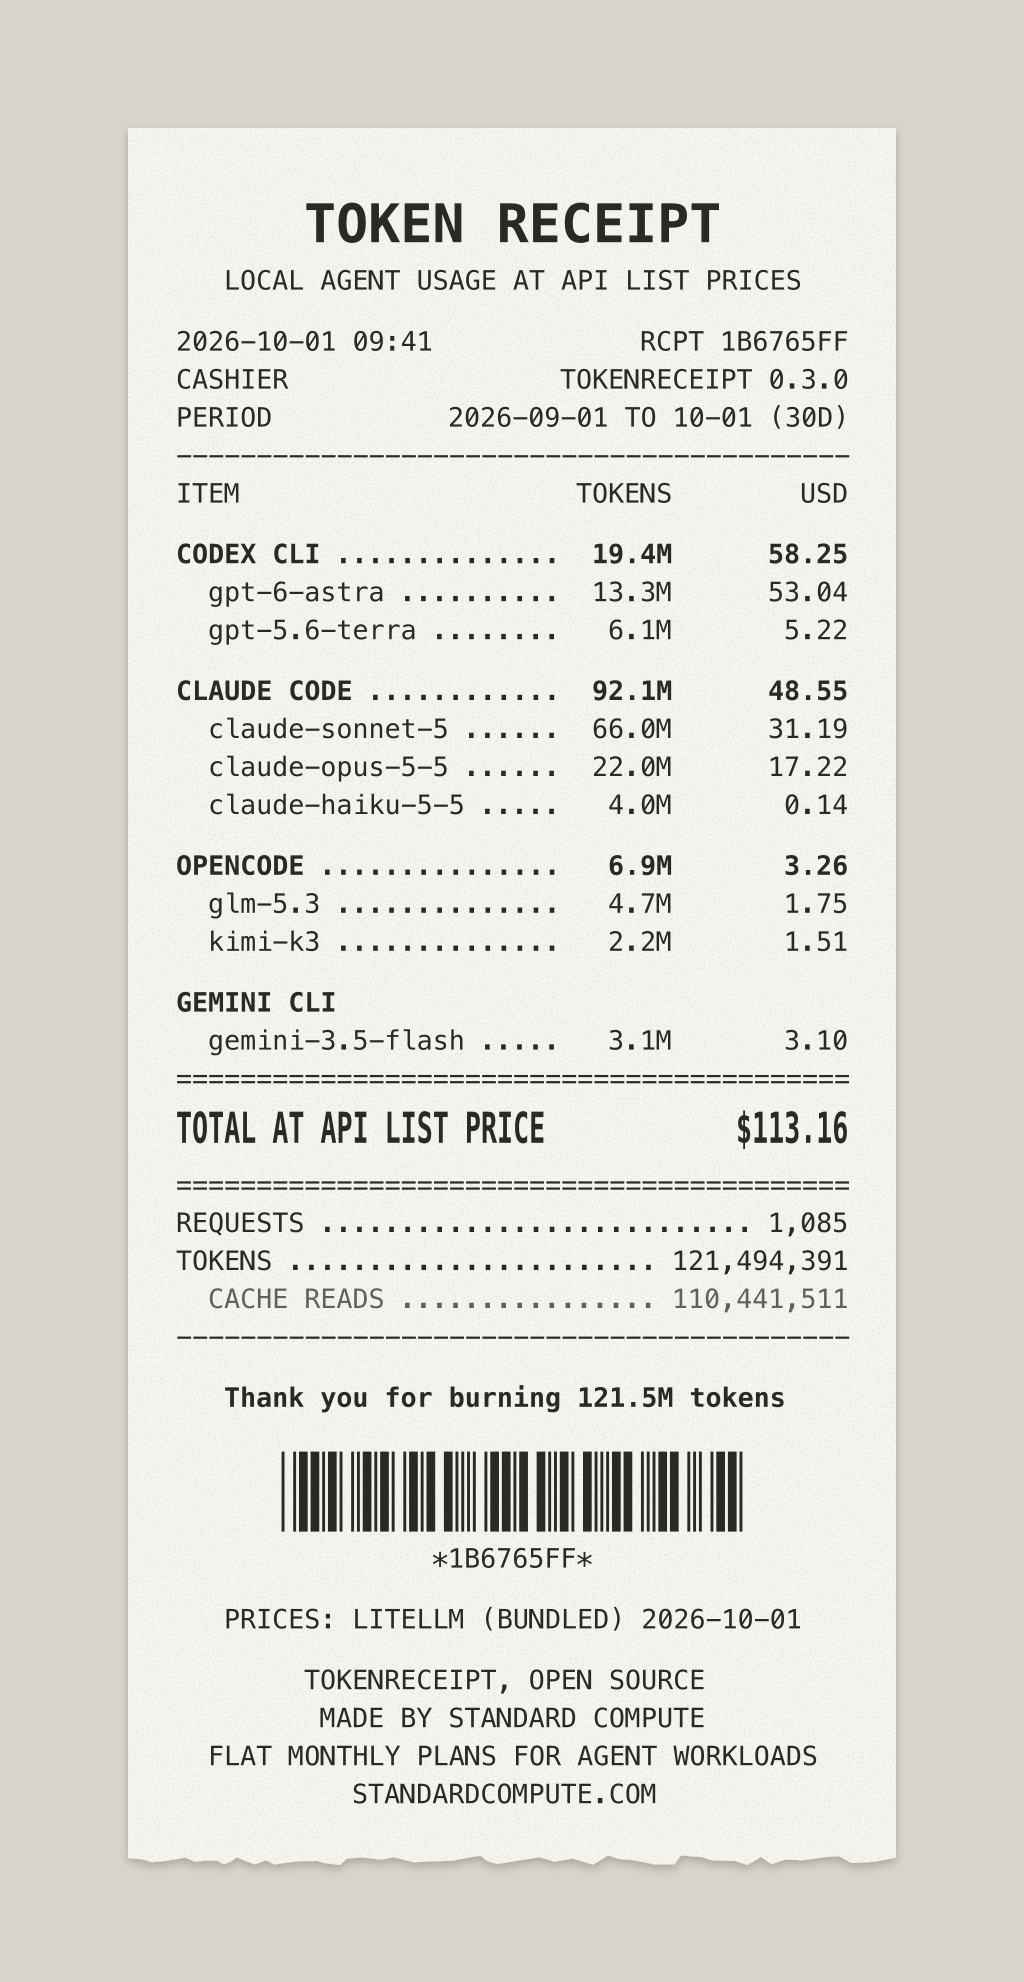
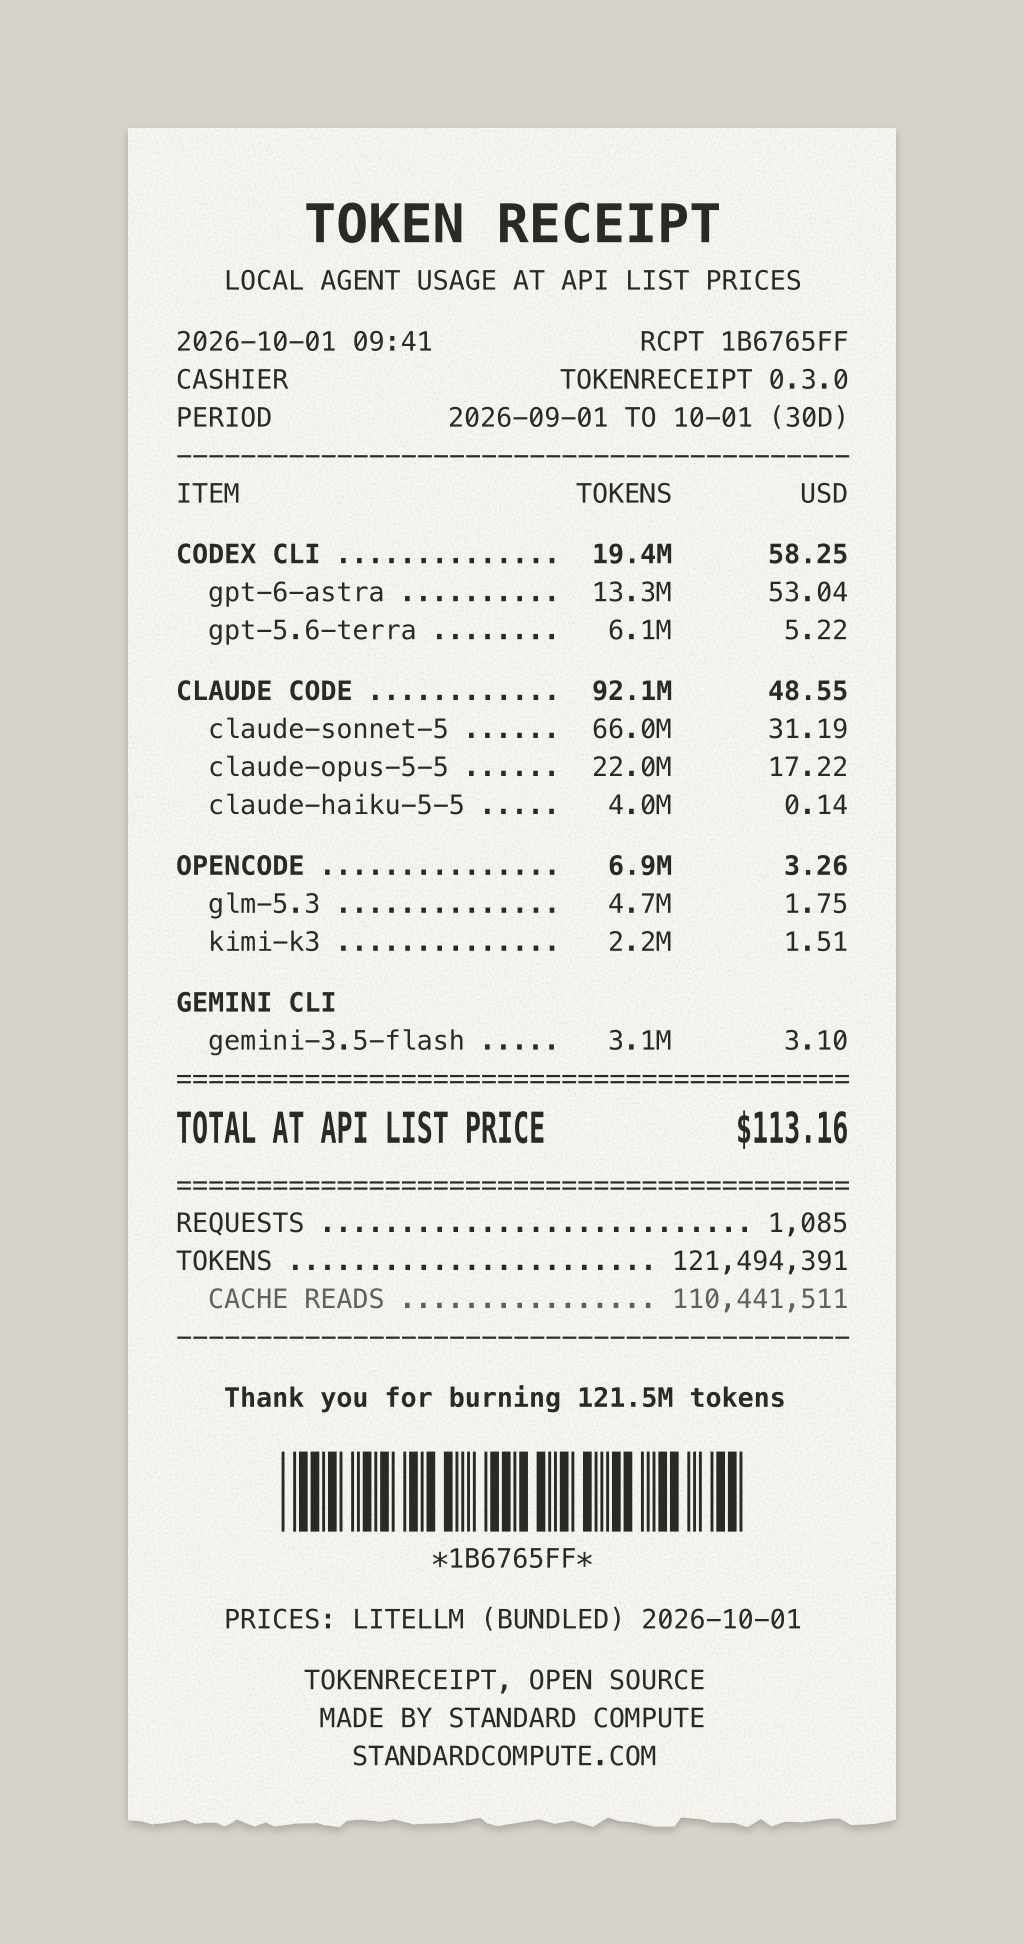
receipt: drop the FLAT MONTHLY PLANS footer line
Footer now reads TOKENRECEIPT, OPEN SOURCE / MADE BY STANDARD COMPUTE /
STANDARDCOMPUTE.COM. Samples and README output block regenerated.

diff --git a/src/render/receipt.js b/src/render/receipt.js
@@ -12,7 +12,7 @@ const TOK_W = 6; // tokens column
 const AMT_W = 10; // amount column
 const MAX_MODELS_PER_AGENT = 5;
 
-export const FOOTER_LINES = ['TOKENRECEIPT, OPEN SOURCE', 'MADE BY STANDARD COMPUTE', 'FLAT MONTHLY PLANS FOR AGENT WORKLOADS', 'STANDARDCOMPUTE.COM'];
+export const FOOTER_LINES = ['TOKENRECEIPT, OPEN SOURCE', 'MADE BY STANDARD COMPUTE', 'STANDARDCOMPUTE.COM'];
 
 const seg = (text, tone = 'ink') => ({ text, tone });
 const blank = () => ({ blank: true });

diff --git a/README.md b/README.md
@@ -92,7 +92,6 @@ TOKENS ....................... 121,494,391
 
         TOKENRECEIPT, OPEN SOURCE
          MADE BY STANDARD COMPUTE
-  FLAT MONTHLY PLANS FOR AGENT WORKLOADS
            STANDARDCOMPUTE.COM
 ```
 
